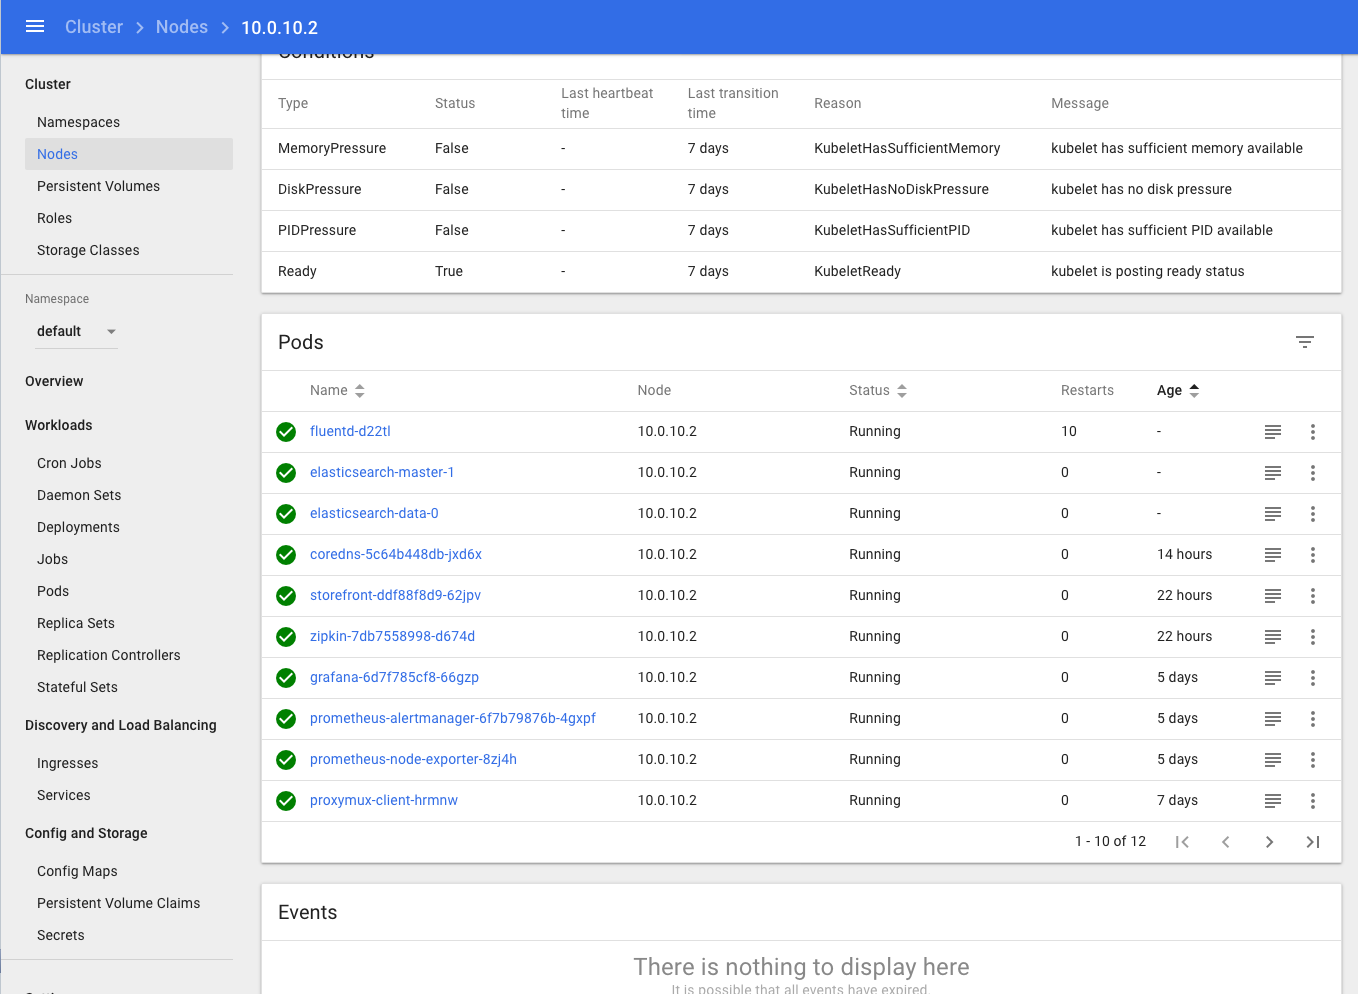
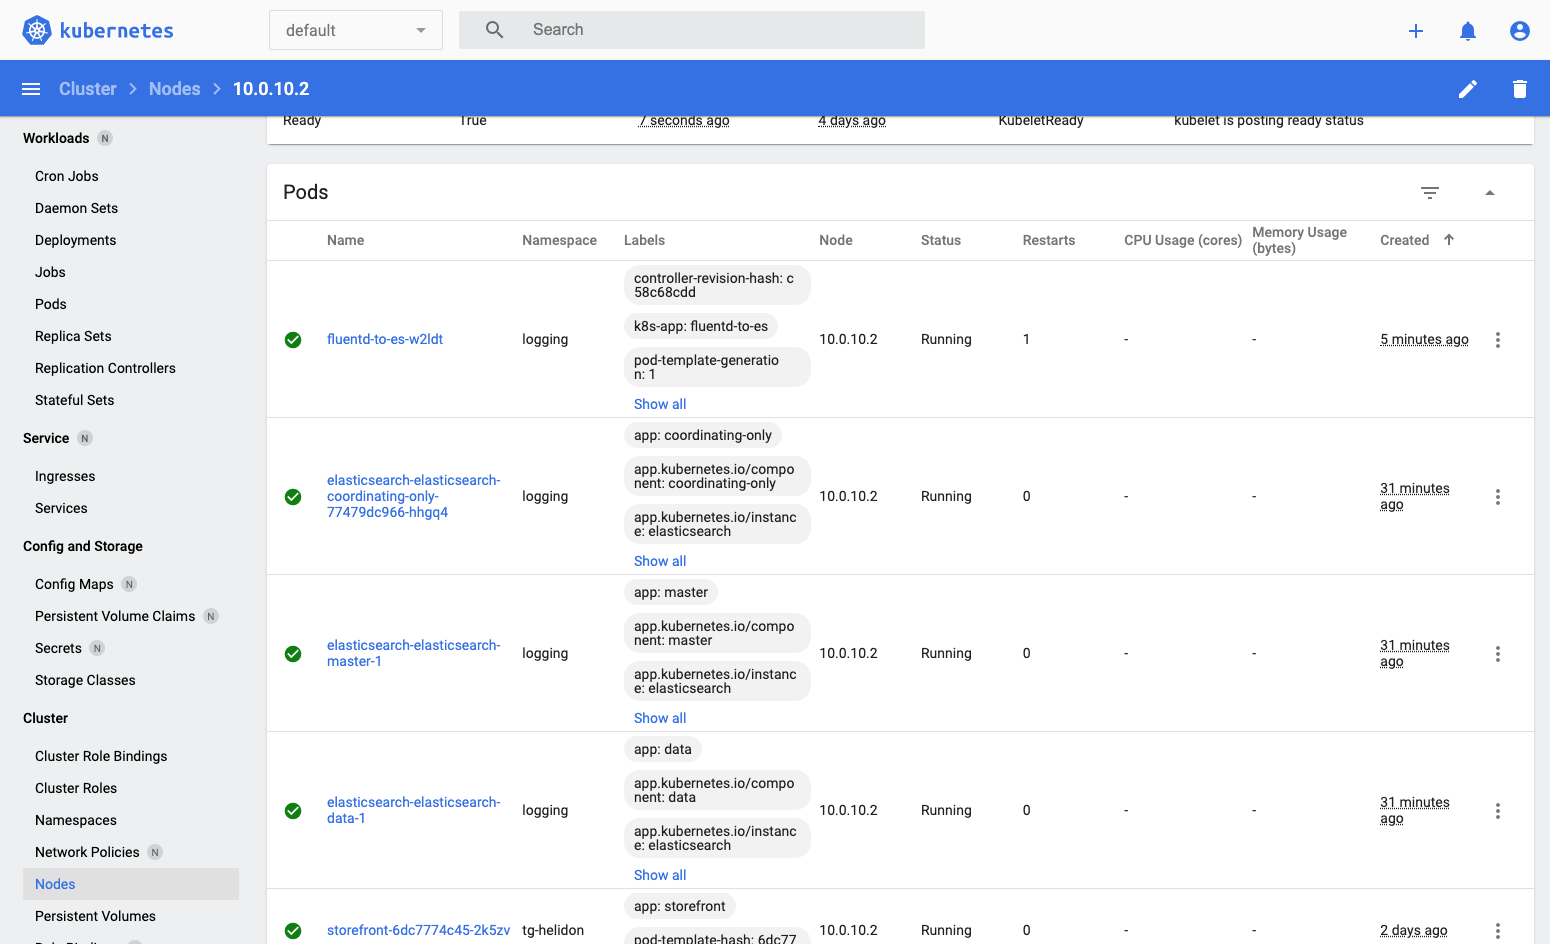
Logging updates for the latest ES and k8s 1.17

diff --git a/AppDev/helidon-k8s/Kubernetes/management/logging/LogCaptureForProcessing.md b/AppDev/helidon-k8s/Kubernetes/management/logging/LogCaptureForProcessing.md
@@ -59,11 +59,29 @@ namespace/logging created
 
 Now let's use helm to install the elastic search engine into the logging namespace
 
-- In the cloud console type :
-  - `helm install elasticsearch stable/elasticsearch -n logging`
+- First if you haven't already done it add the bitnami help repository
 
-  ```
-  NAME: elasticsearch
+- `helm repo add bitnami https://charts.bitnami.com/bitnami`
+```
+"bitnami" has been added to your repositories
+```
+
+- Update the repository cache
+  - `helm repo update`
+
+```
+Hang tight while we grab the latest from your chart repositories...
+...Successfully got an update from the "kubernetes-dashboard" chart repository
+...Successfully got an update from the "bitnami" chart repository
+...Successfully got an update from the "stable" chart repository
+Update Complete. ⎈ Happy Helming!⎈ 
+```
+
+- In the cloud console type :
+  - `helm install elasticsearch bitnami/elasticsearch --namespace logging --version 12.7.3`
+
+```
+NAME: elasticsearch
 LAST DEPLOYED: Wed Apr 22 15:05:25 2020
 NAMESPACE: logging
 STATUS: deployed
@@ -142,7 +160,7 @@ look at the `ingress-nginx-nginx-ingress-controller` row, IP address inthe `EXTE
 
 </p></details>
 
-- In a web browser go to the web page - remember the one below is **my** ip address **you need to use yours** 
+- In a web browser go to the web page `https://<External IP>/elastic/_cat`  (remember the one below is **my** ip address **you need to use yours**)
 
 - If needed in the browser, accept a self signed certificate.
   - In Safari you will be presented with a page saying "This Connection Is Not Private" Click the "Show details" button, then you will see a link titled `visit this website` click that, then click the `Visit Website` button on the confirmation pop-up. To update the security settings you may need to enter a password, use Touch ID or confirm using your Apple Watch.
@@ -293,6 +311,9 @@ ca.crt:     1025 bytes
 - Save it in a plain text editor on your laptop for easy use later
 </p></details>
 
+- Click on the `nodes` option in the `cluster` section of the UI menu on the left
+
+![dashboard-nodes-menu](images/dashboard-nodes-menu.png)
 
 Once you have logged in go to the nodes list (Click nodes on the upper left)
 
@@ -302,20 +323,23 @@ My cluster has 3 nodes, so there are three entries, but yours may have a differe
 
 In the Oracle Kubertnetes Environment the nodes are names based on their IP address, so 10.0.10.2, 10.0.10.3, and 10.0.10.4 in the case of this cluster.
 
-Click on one of the nose names, in this case I chose the 10.0.10.2 node
+- Click on one of the node names, in this case I chose the 10.0.10.2 node
 ![](images/dashboard-node-details.png)
 
 The dashboard is showing the overview of the node, if we scroll down further we'll see the list of the pods running on it.
 
 ![](images/dashboard-node-pods.png)
 
-The fluentd pod is running, along with a number of others, some are system pods, others are out application.
+The fluentd pod is running, along with a number of others, for example the elaxtic search pods, others are system pods, and our application.
 
 If you look at all of the other nodes you'll find that there is a fluentd pod on all of them, even though the other services like storefrond or stock manager aren't running on them all (well unless you've told Kubernetes to run multiple instances of the pod)
 
 ### Looking the the data
 
 If we go back and look at the Elastic search list of indices now we can see that some data has been added (the `?v=true` means that column headings are included the the returned data
+
+- In a web browser go to the web page `https://<External IP>/elastic/_cat/indices?v=true`  (remember the one below is **my** ip address **you need to use yours**)
+
 
 ![](images/ES-some-indicies.png)
 
@@ -325,19 +349,21 @@ We can have a look at the data from a specific day
 
 I've used the index for the data gathered most recently, as can be seen in the index listing that's `logstash-2020.04.23` **but yours will be different**
 
+For example the URL `https://<External IP>/elastic/logstash-2020.04.23/_search`  (remember the one below is **my** ip address **you need to use yours**)
+
 ![](images/ES-quick-log-query.png)
 
-There's a lot of data here, but this has been running most of the day as I wrote this module, most interesting is that in the hits.total section we can see that there were 66177 entries, and we can see that (in this case) entry 0 is a warning from fluentd about the log data generated by the coredns container.
+There's a lot of data here (and depending on which browser yu use it may be nicely formated, or a pure text dump) but this has been running most of the day as I wrote this module, most interesting is that in the hits.total section we can see that there were 66177 entries, and we can see that (in this case) entry 0 is a warning from fluentd about the log data generated by the coredns container.
 
 Of course we can focus in on specific entries if we want, in this case we're going to look for entries which have the container_name of storefront
 
+For example the URL `https://<External IP>/elastic/logstash-2020.04.23/_search?q=kubernetes.container_name:storefront`  (remember the one below is **my** ip address **you need to use yours**)
+
 ![](images/ES-search-empty-storefront.png)
 
-https://130.61.195.102/elastic/logstash-2020.04.23/_search?q=kubernetes.container_name:storefront
+It may be empry, or you may get log messages (will really depend on if you'de used it on the chosen day)
 
-It's empty, the hits count is zero ! But that's because we haven't generated any log messages from the storefront container since we setup up the log capture.
-
-Let's do some requests to the stock manager service which will generate log data
+If you haven't generated any log messages from the storefront container since we setup up the log capture just do some requests to the stock manager service which will generate log data
 
 - In the OCI Cloud Shell terminal type (remember to replace the <external IP> with the IP address for the ingress controller for your service):
   - `curl -i -k -X GET -u jack:password https://<external IP>/store/stocklevel`
@@ -358,7 +384,7 @@ Do this several times, then look at the log URL again
 
 ![](images/ES-search-storefront-data.png)
 
-Now we can see that there is data in the system, there were 12 hits.
+Now you will can see that there is data in the system, there were 12 hits.
 
 You may have seen that the data arrived into the elastic search index pretty fast, fluentd is monitoring the log files all the time, in my testing it's usually less than a second between the log data being generated and the data being in the logs cache, though of course that can very.
 
